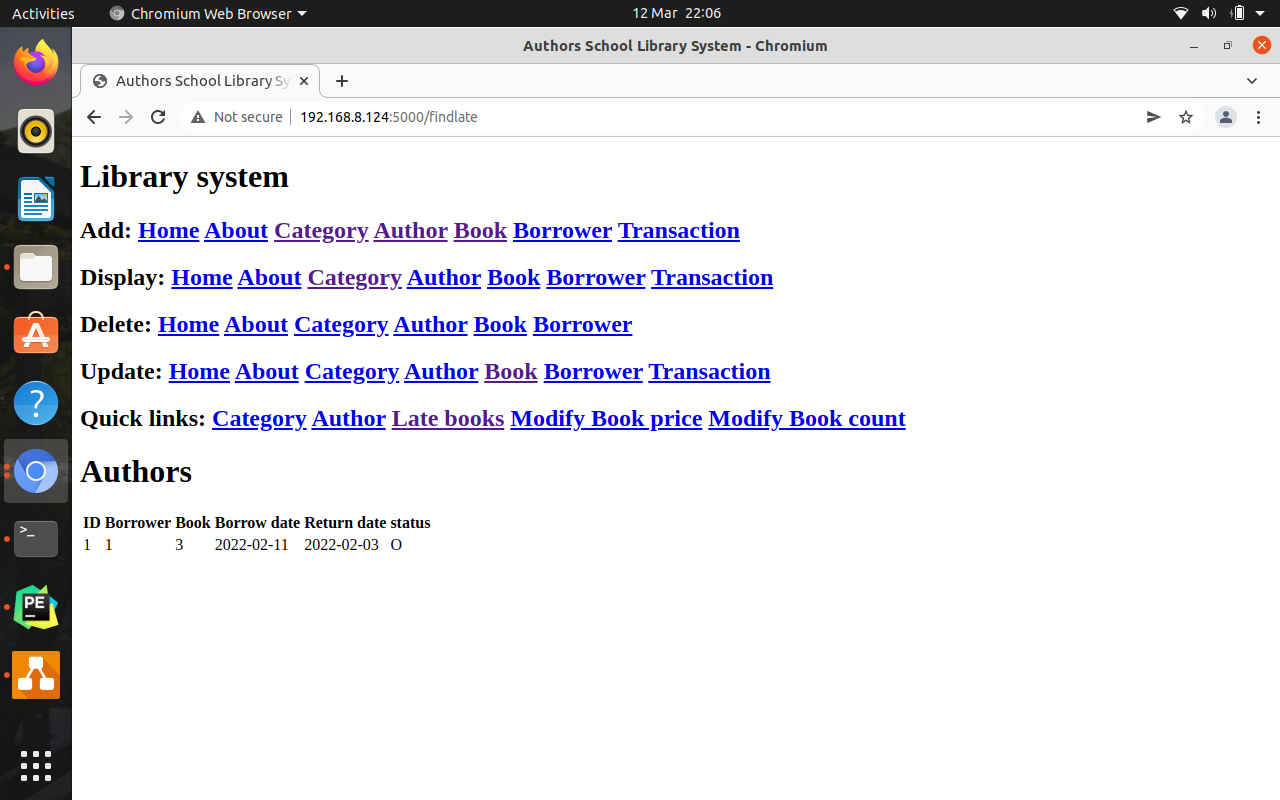
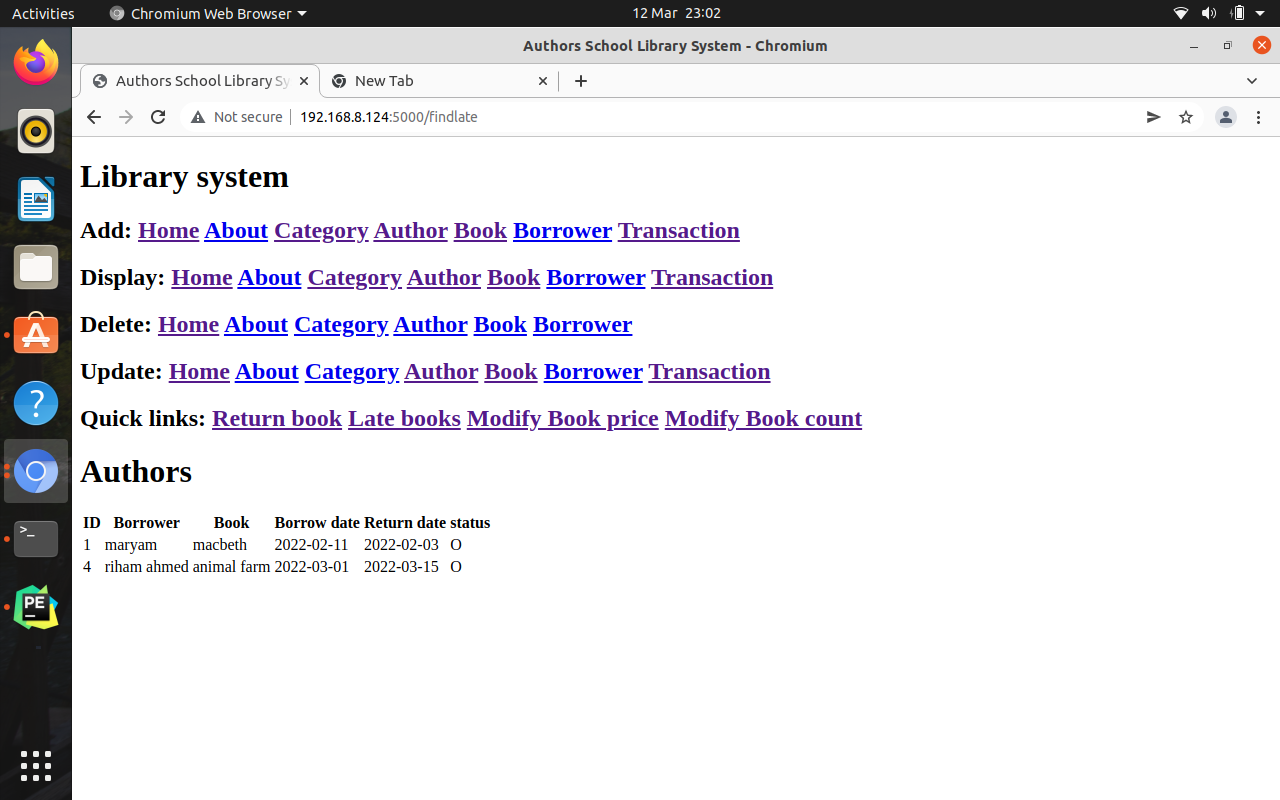
sd

diff --git a/application/models.py b/application/models.py
@@ -22,16 +22,6 @@ class Author(db.Model):
     author_id = db.Column(db.Integer, primary_key=True)
     author_name = db.Column(db.String(50), nullable=False)
 
-    def getauthor(self, d1):
-        statement = 'SELECT author_name FROM author WHERE author_id=' + id1
-        self.author_name = db.Query.execute(statement)
-        return self
-
-    def updateauthor(self, id1, name):
-        statement = "UPDATE author SET author_name=" + name + "WHERE author_id=" + id1
-        db.Query.execute(statement)
-        return "author updated"
-
     
 class Borrower(db.Model):
     borrower_id = db.Column(db.Integer, primary_key=True)

diff --git a/application/routes.py b/application/routes.py
@@ -314,7 +314,7 @@ def returnbook():
 def searchlate():
     conn = mysql.connect()
     cursor = conn.cursor()
-    cursor.execute("SELECT * FROM transaction   WHERE borrow_date +7 < CURDATE()  AND status= 'O'")
+    cursor.execute("SELECT * FROM borrowbook   WHERE borrow_date +7 < CURDATE()  AND status= 'O'")
     all_authors = cursor.fetchall()
     headings = ("ID", "Borrower", "Book", "Borrow date", "Return date", "status")
     return render_template('display.html', title='Authors', data=all_authors, headings=headings)

diff --git a/README.md b/README.md
@@ -116,7 +116,11 @@ Testing is a crucial part of software development. The pytest framework makes it
  <b style="color:red"> Display late Books </b>
 <img src="figures/late.png" alt="Late Book">
 
+<b style="color:red"> Return Books </b>
+<img src="figures/return.png" alt="Return Book">
+
 7. <b id=C11> Known issues </b><br>
+   <p> I didn't manage to finish the login module so this website doesn't have any authentication method currently. I need to add more validation on data entry. Add Search feature
 8. <b id=C12> Author </b><br>
 Riham Ahmed 
 
